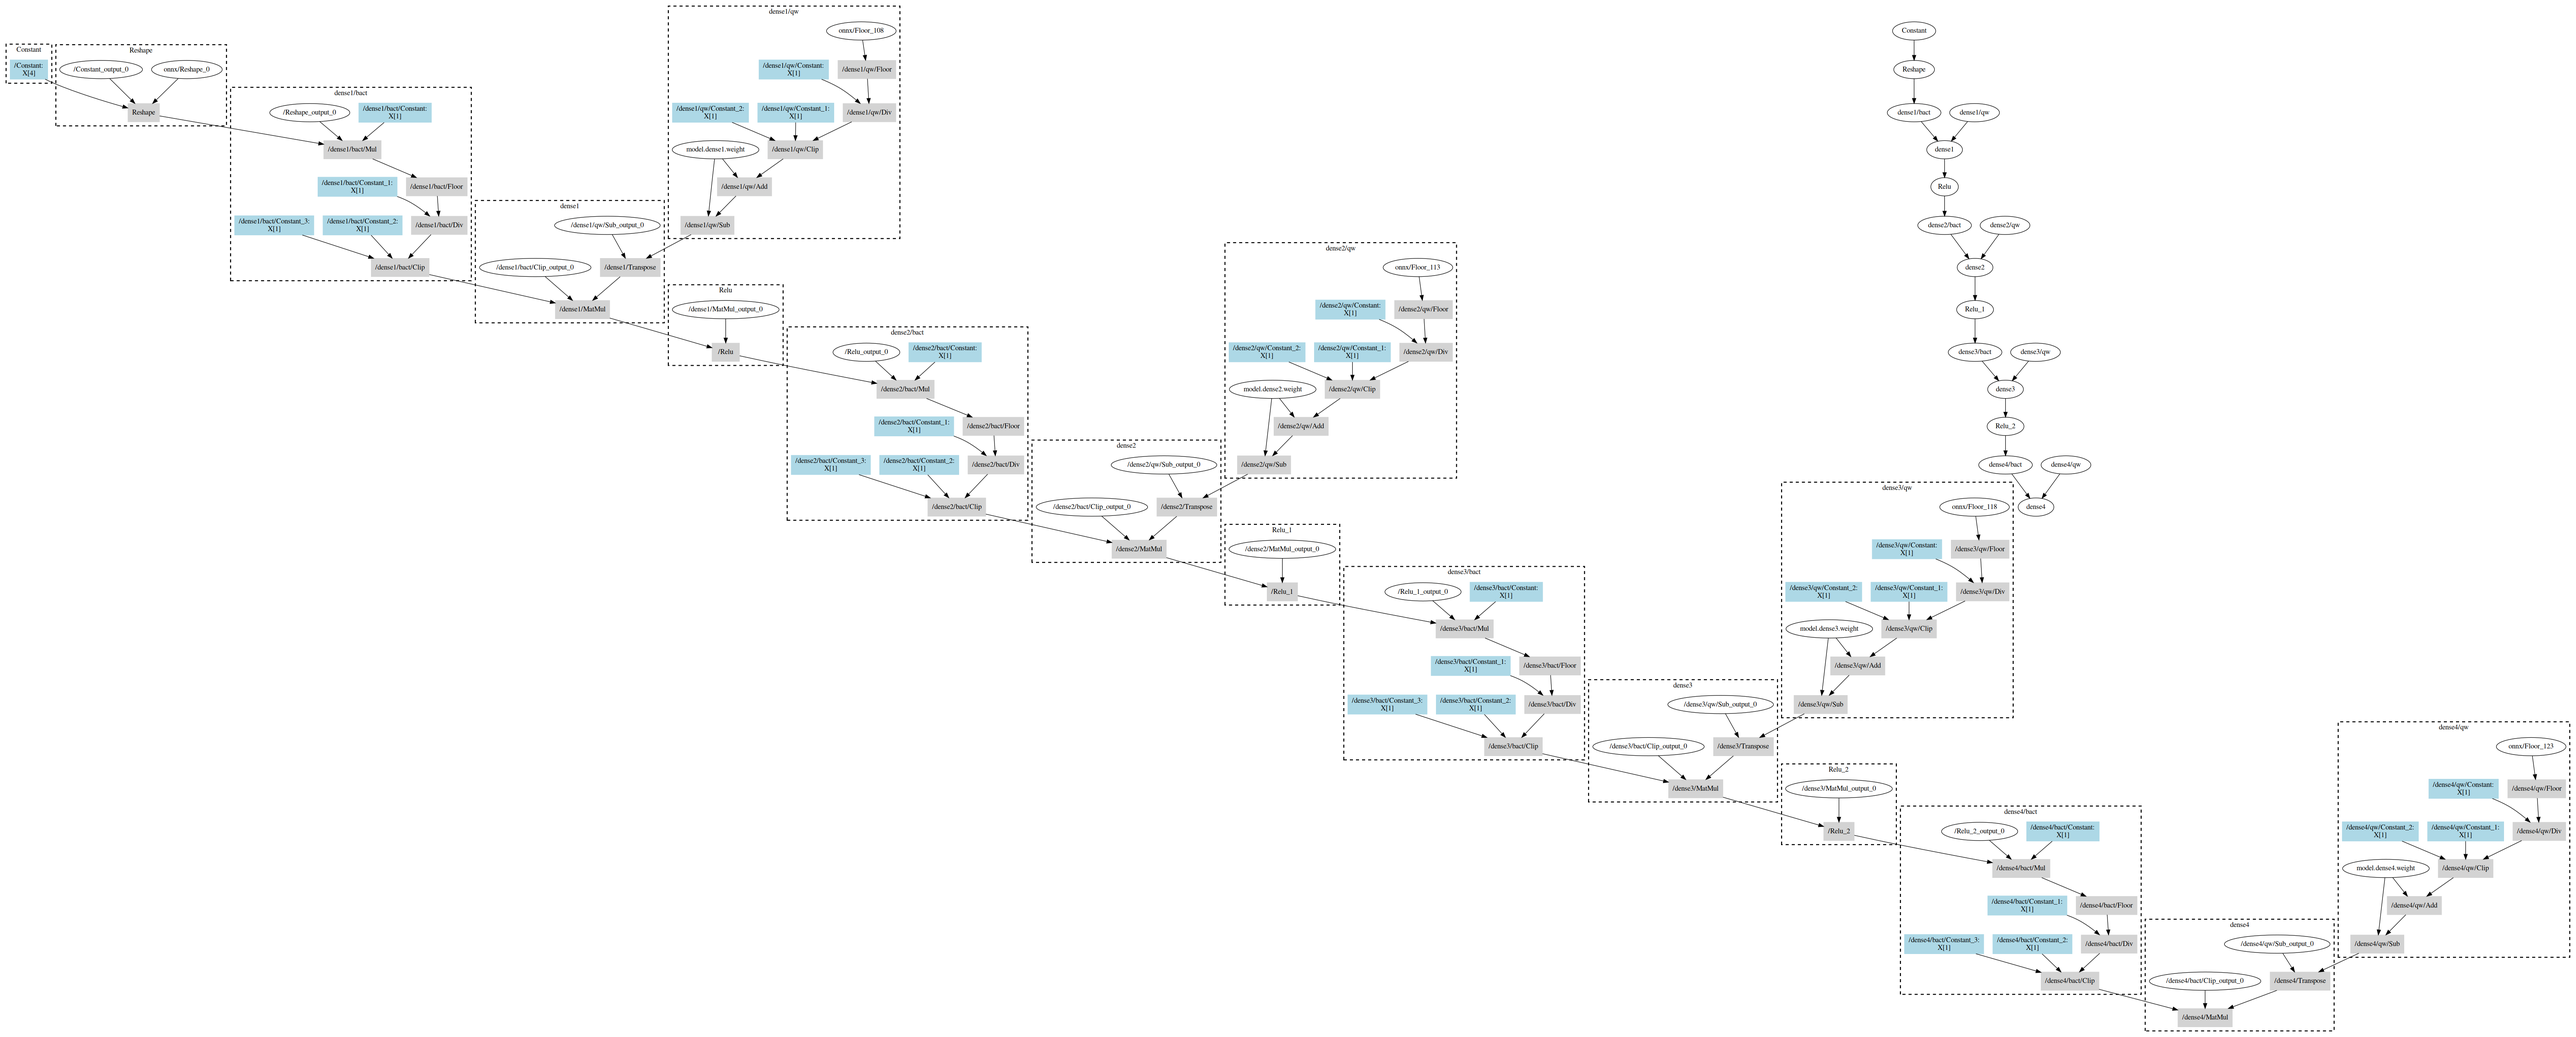
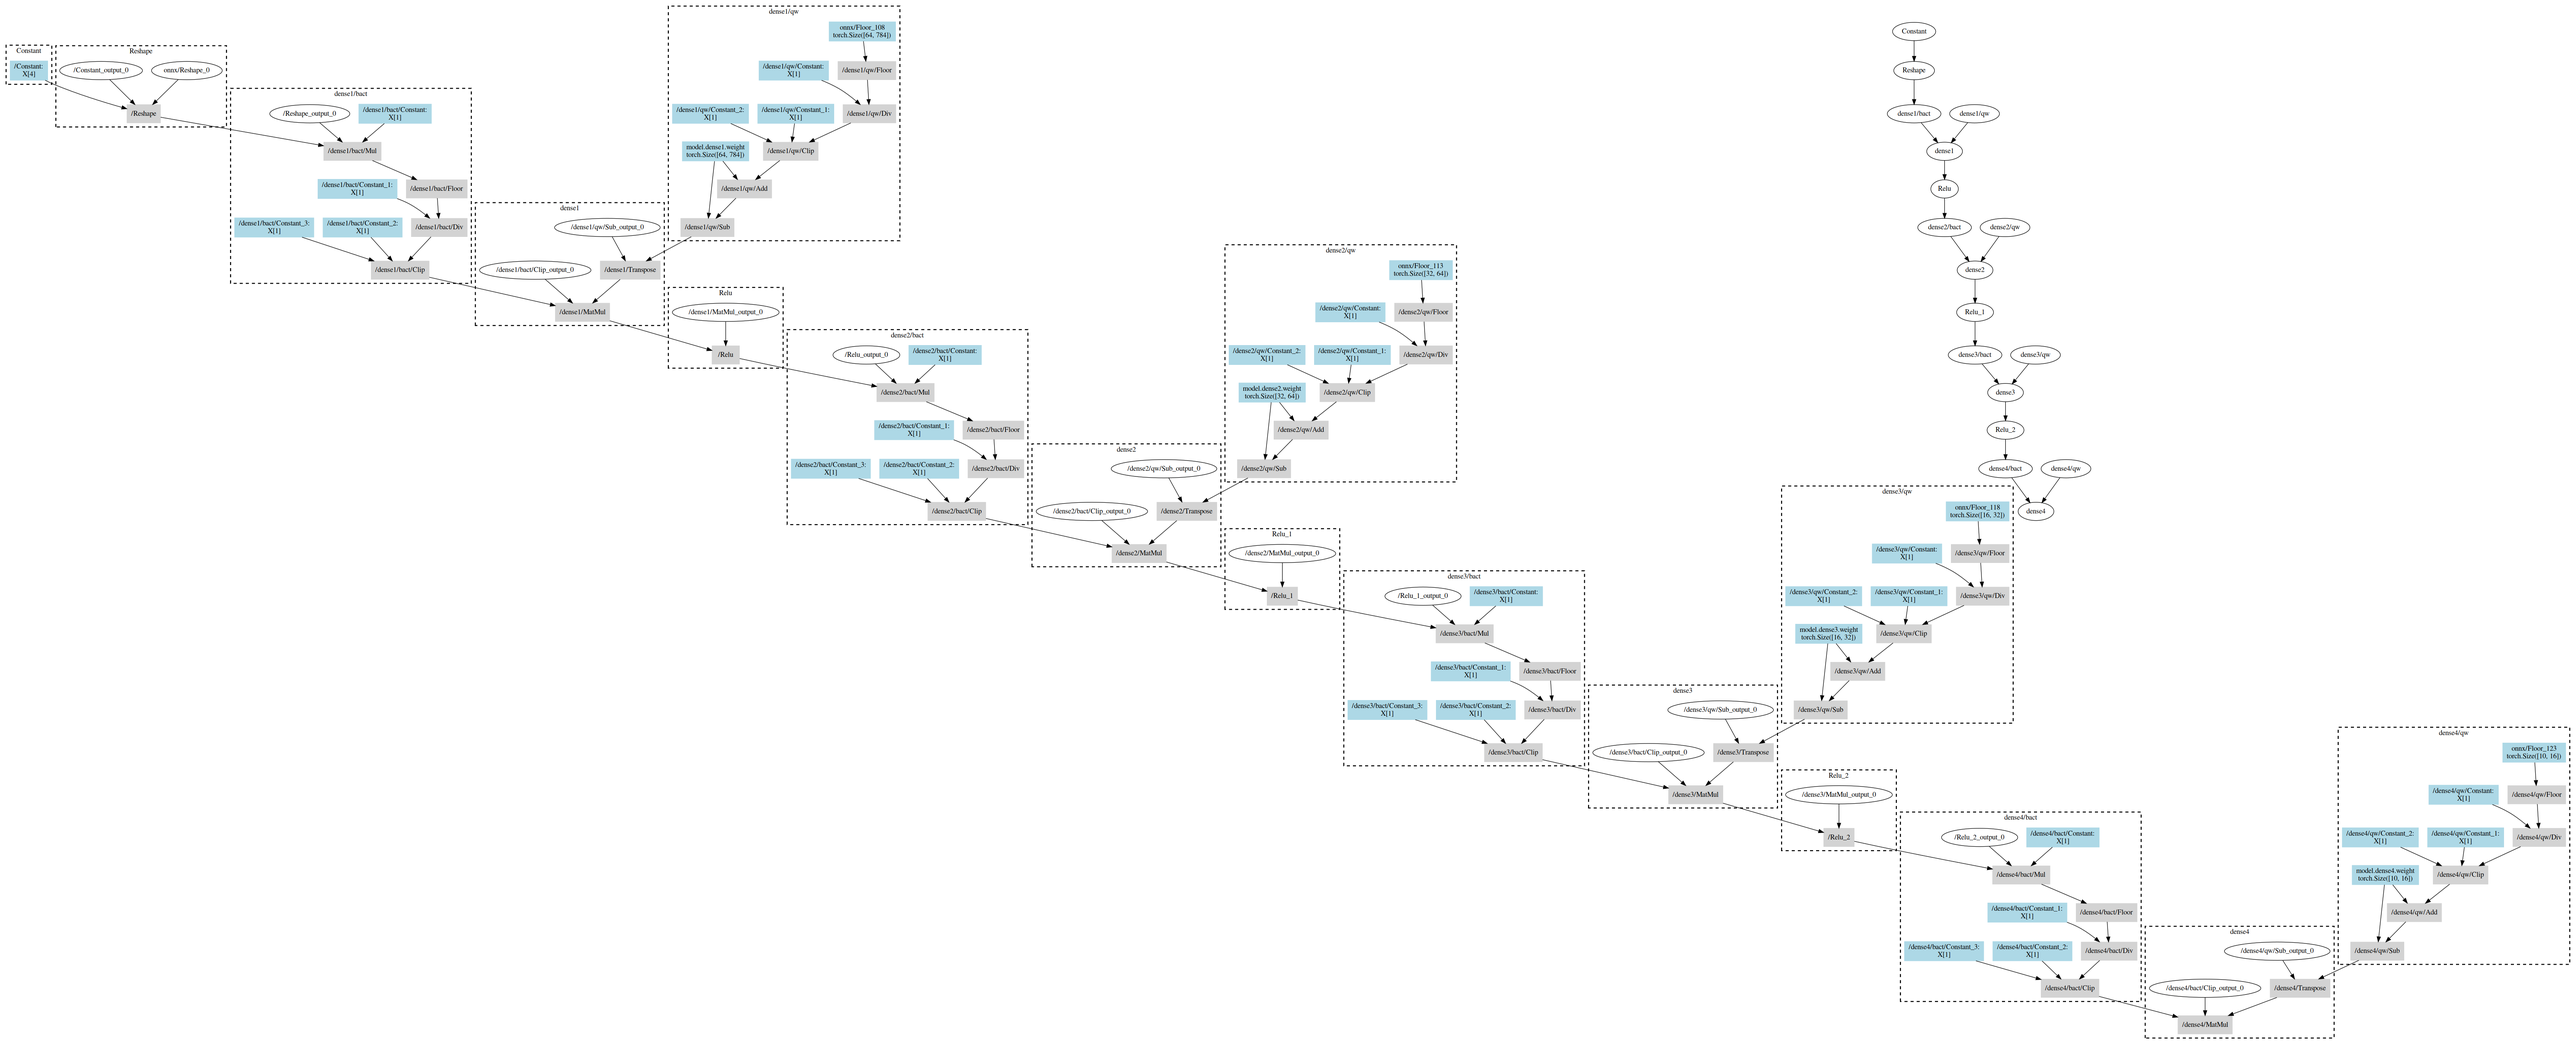
weight tensors added

diff --git a/nngraph/layer.py b/nngraph/layer.py
@@ -91,13 +91,29 @@ class Layer(nx.DiGraph):
                         self.add_edge(self.get_node(first.get_name()), self.get_node(second.get_name()))
             
     def _onnx_node_to_op(self, node):
-        # print(node.name, node.op_type)
         known_ops={"Constant":ConstOP, "MatMul":MatMulOP, "Transpose":TransposeOP, "Div":DivOP, "Clip":ClipOP,
-                    "Mul":MulOP, "Floor":FloorOP, "Add":AddOP, "Sub":SubOP, "Relu":ReluOP}
+                    "Mul":MulOP, "Floor":FloorOP, "Add":AddOP, "Sub":SubOP, "Relu":ReluOP, "Reshape":ReshapeOP}
+
         if node.op_type not in known_ops.keys():
             self.add_node(Operation(node.name, node, label=self.parse_onnx_op_name(node.name)))
         else:
             self.add_node(known_ops[node.op_type](node.name, node))
+
+        weights_dict = {}
+        for initializer in self.model_onnx.graph.initializer:
+            tensor = torch.from_numpy(onnx.numpy_helper.to_array(initializer))
+            weights_dict[initializer.name] = tensor
+
+        all_inputs=[]
+        for node in self.nodes:
+            all_inputs += node.inputs
+
+        for name, tensor in weights_dict.items():
+            if name not in all_inputs:
+                continue
+            tensor = TensorOP(name.replace("::", "/"), tensor)
+            tensor.outputs=[tensor.name]
+            self.add_node(tensor)
 
     def get_output_shape(self):
         output = self.outputs[0] ##only one
@@ -120,7 +136,7 @@ class Layer(nx.DiGraph):
             shape = 'box'
             style = 'filled'
 
-            if isinstance(node, ConstOP):
+            if isinstance(node, ConstOP) or isinstance(node, TensorOP):
                 color = 'lightblue'
             # elif isinstance(node, OutputOP):
             #     color = 'lightgreen'
@@ -136,7 +152,6 @@ class Layer(nx.DiGraph):
                     known_inputs+=pred.outputs
                 if input_name not in known_inputs:
                     dot.edge(input_name, node.get_name())
-                    print(input_name)
 
         for edge in self.edges():
             dot.edge(edge[0].get_name(), edge[1].get_name())

diff --git a/nngraph/operation.py b/nngraph/operation.py
@@ -25,10 +25,13 @@ class Operation:
         self.name=name # unique
         self.label=label
         self.type=type
-        self.inputs=node.input
-        # if "onnx" in [str(i) for i in self.inputs]:
-        #     self.inputs.remove("onnx")
-        self.outputs=node.output
+
+        if node is not None:
+            self.inputs=node.input
+            self.outputs=node.output
+        else:
+            self.inputs=[]
+            self.outputs=[]
     
     def __hash__(self):
         return hash(self.name)
@@ -138,4 +141,23 @@ class ReluOP(Operation):
 
     def get_label(self):
         printable = self.name
+        return printable
+
+class ReshapeOP(Operation):
+    def __init__(self, name:str, node:onnx.NodeProto, label:str="Reshape"):
+        super().__init__(name, node, OperationType.UNKNOWN, label)
+        # print(node)
+
+    def get_label(self):
+        printable = self.name
+        return printable
+
+class TensorOP(Operation): # not op
+    def __init__(self, name:str, tensor:torch.Tensor, label:str="Tensor"):
+        super().__init__(name, None, OperationType.UNKNOWN, label)
+        self.tensor=tensor
+
+    def get_label(self):
+        printable = self.name
+        printable += "\n" + str(self.tensor.shape)
         return printable

diff --git a/nngraph/graph.py b/nngraph/graph.py
@@ -52,7 +52,7 @@ class Graph(nx.DiGraph):
     def _read_model(self):
         self.model_torch=onnx2torch.convert('models/model.onnx') ## TODO:wtf
         self.model_onnx=onnx.load('models/model.onnx')
-
+        
         for node in self.model_onnx.graph.node:
             name = '/'.join(node.name.split('/')[1:-1])
             if name == "":
@@ -116,7 +116,7 @@ class Graph(nx.DiGraph):
         for layer in self.nodes:
             dot.subgraph(layer.get_visual())
 
-        for prev_layer in self.nodes: # clean this TODO:this should be done in graph
+        for prev_layer in self.nodes: # this is a bad view, layers are connected not the ops
             for layer in self.nodes:
                 if layer == prev_layer:
                     continue
@@ -128,7 +128,6 @@ class Graph(nx.DiGraph):
                                     dot.edge(output.get_name(), input.get_name())
                                     break
         for edge in self.edges:
-            print(edge)
             dot.edge(edge[1].name,edge[0].name)
 
         dot.render(self.output_path + '/operational_graph', format='png', cleanup=True) 
